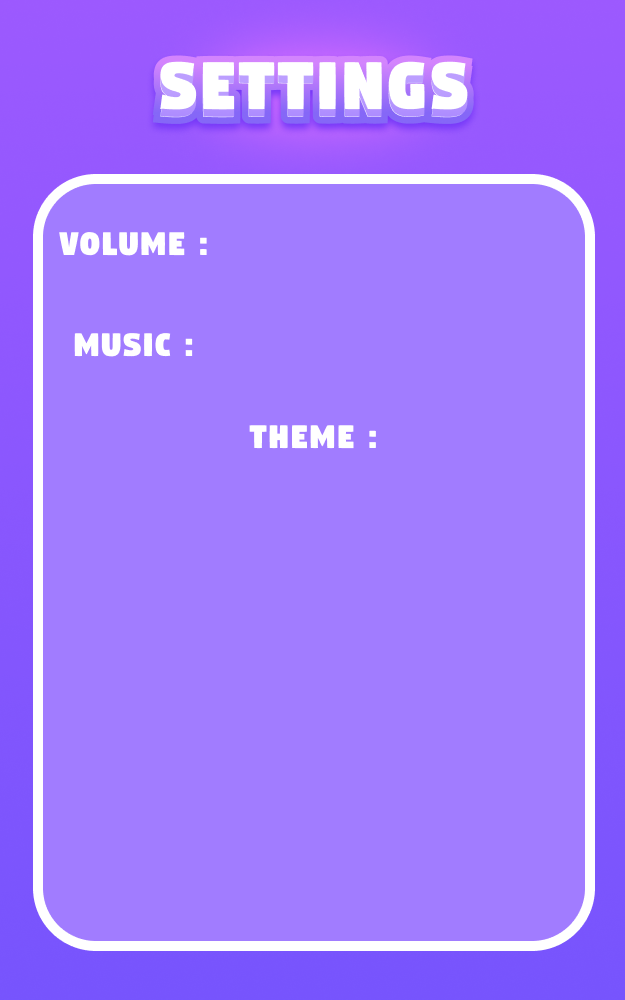
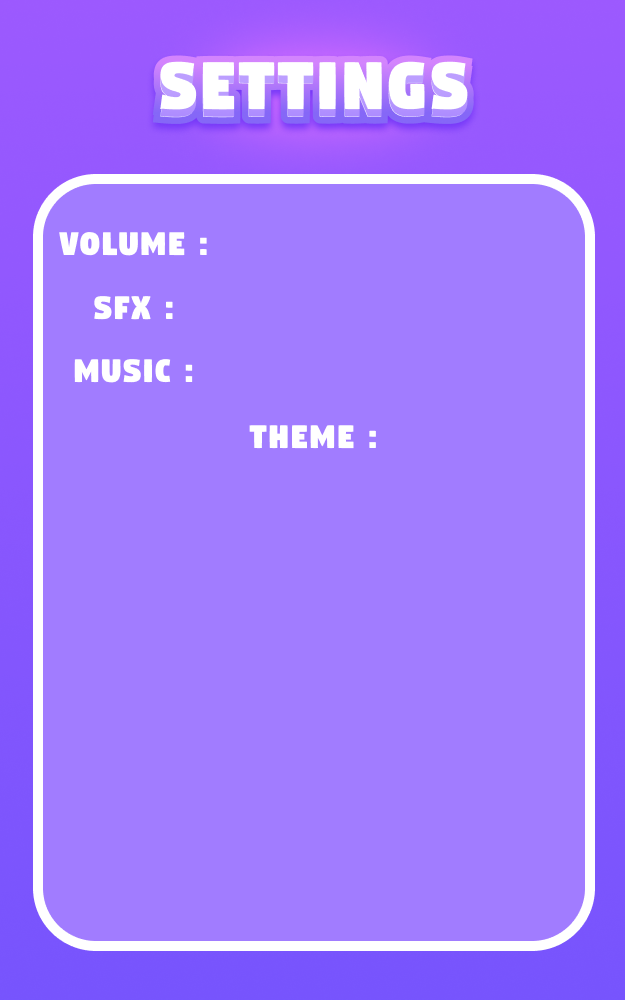
disable/enable sfx implemented

Changed region(s): [[0.1216, 0.279, 0.304, 0.403]]

diff --git a/src/main.cpp b/src/main.cpp
@@ -43,6 +43,7 @@ SDL_Texture *Background = IMG_LoadTexture(renderer, "assets/Menu/BG.png");
 SDL_Texture *StartScreen = IMG_LoadTexture(renderer, "assets/Menu/StartingScreen.png");
 
 int musicIndex = 1;
+bool sfx = true;
 
 vector<music> musicList = {{"Off", ""}, {"Piano", "assets/Sounds/pianoMusic.mp3"}, {"Bache Nane", "assets/Sounds/MohsenLorestani-BacheNane.mp3"}};
 
@@ -475,17 +476,20 @@ int main(int argc, char const *argv[])
       if (settings.wasClicked)
       {
         SDL_Texture *SettingsBG = IMG_LoadTexture(renderer, "assets/Settings/Settings.png");
+        SDL_Texture *on = IMG_LoadTexture(renderer, "assets/Settings/ON.png");
+        SDL_Texture *off = IMG_LoadTexture(renderer, "assets/Settings/OFF.png");
 
         vector<SDL_Texture *> soundBar = {IMG_LoadTexture(renderer, "assets/Settings/sound0.png"), IMG_LoadTexture(renderer, "assets/Settings/sound20.png"), IMG_LoadTexture(renderer, "assets/Settings/sound40.png"), IMG_LoadTexture(renderer, "assets/Settings/sound60.png"), IMG_LoadTexture(renderer, "assets/Settings/sound80.png"), IMG_LoadTexture(renderer, "assets/Settings/sound100.png")};
 
         vector<button> adjustButtons = {
-            {39, 46, 218, 226, 0, 0, 0, 0, 0, false, false, IMG_LoadTexture(renderer, "assets/Settings/L-SFX.png"), IMG_LoadTexture(renderer, "assets/Settings/L-SFXHovered.png"), 0, hover, click},
-            {39, 46, 530, 226, 0, 0, 0, 0, 0, false, false, IMG_LoadTexture(renderer, "assets/Settings/R-SFX.png"), IMG_LoadTexture(renderer, "assets/Settings/R-SFXHovered.png"), 0, hover, click},
-            {39, 46, 218, 324, 0, 0, 0, 0, 0, false, false, IMG_LoadTexture(renderer, "assets/Settings/L-Music.png"), IMG_LoadTexture(renderer, "assets/Settings/L-MusicHovered.png"), 0, hover, click},
-            {39, 46, 530, 324, 0, 0, 0, 0, 0, false, false, IMG_LoadTexture(renderer, "assets/Settings/R-Music.png"), IMG_LoadTexture(renderer, "assets/Settings/R-MusicHovered.png"), 0, hover, click},
+            {39, 46, 218, 226, 0, 0, 0, 0, 0, false, false, IMG_LoadTexture(renderer, "assets/Settings/L-VOLUME.png"), IMG_LoadTexture(renderer, "assets/Settings/L-VOLUMEHovered.png"), 0, hover, click},
+            {39, 46, 530, 226, 0, 0, 0, 0, 0, false, false, IMG_LoadTexture(renderer, "assets/Settings/R-VOLUME.png"), IMG_LoadTexture(renderer, "assets/Settings/R-VOLUMEHovered.png"), 0, hover, click},
+            {39, 46, 218, 350, 0, 0, 0, 0, 0, false, false, IMG_LoadTexture(renderer, "assets/Settings/L-Music.png"), IMG_LoadTexture(renderer, "assets/Settings/L-MusicHovered.png"), 0, hover, click},
+            {39, 46, 530, 350, 0, 0, 0, 0, 0, false, false, IMG_LoadTexture(renderer, "assets/Settings/R-Music.png"), IMG_LoadTexture(renderer, "assets/Settings/R-MusicHovered.png"), 0, hover, click},
             {58, 68, 90, 663, 0, 0, 0, 0, 0, false, false, IMG_LoadTexture(renderer, "assets/Settings/L-THEME.png"), IMG_LoadTexture(renderer, "assets/Settings/L-THEMEHovered.png"), 0, hover, click},
             {58, 68, 480, 663, 0, 0, 0, 0, 0, false, false, IMG_LoadTexture(renderer, "assets/Settings/R-THEME.png"), IMG_LoadTexture(renderer, "assets/Settings/R-THEMEHovered.png"), 0, hover, click},
-        };
+            {39, 46, 218, 287, 0, 0, 0, 0, 0, false, false, IMG_LoadTexture(renderer, "assets/Settings/L-SFX.png"), IMG_LoadTexture(renderer, "assets/Settings/L-SFXHovered.png"), IMG_LoadTexture(renderer, "assets/Settings/L-SFXHovered.png"), hover, click},
+            {39, 46, 530, 287, 0, 0, 0, 0, 0, false, false, IMG_LoadTexture(renderer, "assets/Settings/R-SFX.png"), IMG_LoadTexture(renderer, "assets/Settings/R-SFXHovered.png"), IMG_LoadTexture(renderer, "assets/Settings/R-SFXHovered.png"), hover, click}};
 
         vector<SDL_Texture *> themes = {IMG_LoadTexture(renderer, "assets/Settings/Theme1.png"), IMG_LoadTexture(renderer, "assets/Settings/Theme2.png"), IMG_LoadTexture(renderer, "assets/Settings/Theme3.png")};
 
@@ -515,26 +519,51 @@ int main(int argc, char const *argv[])
             drawButton(renderer, adjustButtons[3], event);
             drawButton(renderer, adjustButtons[4], event);
             drawButton(renderer, adjustButtons[5], event);
+            drawButton(renderer, adjustButtons[6], event);
+            drawButton(renderer, adjustButtons[7], event);
 
             if (adjustButtons[1].wasClicked && volume < 100)
             {
               volume += 20;
-              Mix_Volume(-1, volume);
+              if (sfx)
+                Mix_Volume(-1, volume);
+
               Mix_VolumeMusic(MIX_MAX_VOLUME * volume / 100);
               adjustButtons[1].wasClicked = false;
             }
             else if (adjustButtons[0].wasClicked && volume > 0)
             {
               volume -= 20;
-              Mix_Volume(-1, volume);
+              if (sfx)
+                Mix_Volume(-1, volume);
               Mix_VolumeMusic(MIX_MAX_VOLUME * volume / 100);
               adjustButtons[0].wasClicked = false;
+            }
+
+            if (adjustButtons[7].wasClicked || adjustButtons[6].wasClicked)
+            {
+              sfx = !sfx;
+              adjustButtons[7].wasClicked = false, adjustButtons[6].wasClicked = false;
+              if (sfx)
+                Mix_Volume(-1, volume);
+              else
+                Mix_Volume(-1, 0);
+            }
+            if (sfx)
+            {
+              SDL_Rect sfxRect = {363, 296, 42, 22};
+              SDL_RenderCopy(renderer, on, 0, &sfxRect);
+            }
+            else
+            {
+              SDL_Rect sfxRect = {349, 296, 55, 22};
+              SDL_RenderCopy(renderer, off, 0, &sfxRect);
             }
 
             SDL_Rect volumeBar = {285, 225, 222, 43};
             SDL_RenderCopy(renderer, soundBar[volume / 20], 0, &volumeBar);
 
-            setMusic(renderer, adjustButtons[3].wasClicked, adjustButtons[2].wasClicked, musicList, musicIndex, musicSound, Settings, 285, 323);
+            setMusic(renderer, adjustButtons[3].wasClicked, adjustButtons[2].wasClicked, musicList, musicIndex, musicSound, Settings, 285, 350);
 
             if (adjustButtons[3].wasClicked || adjustButtons[2].wasClicked)
             {
